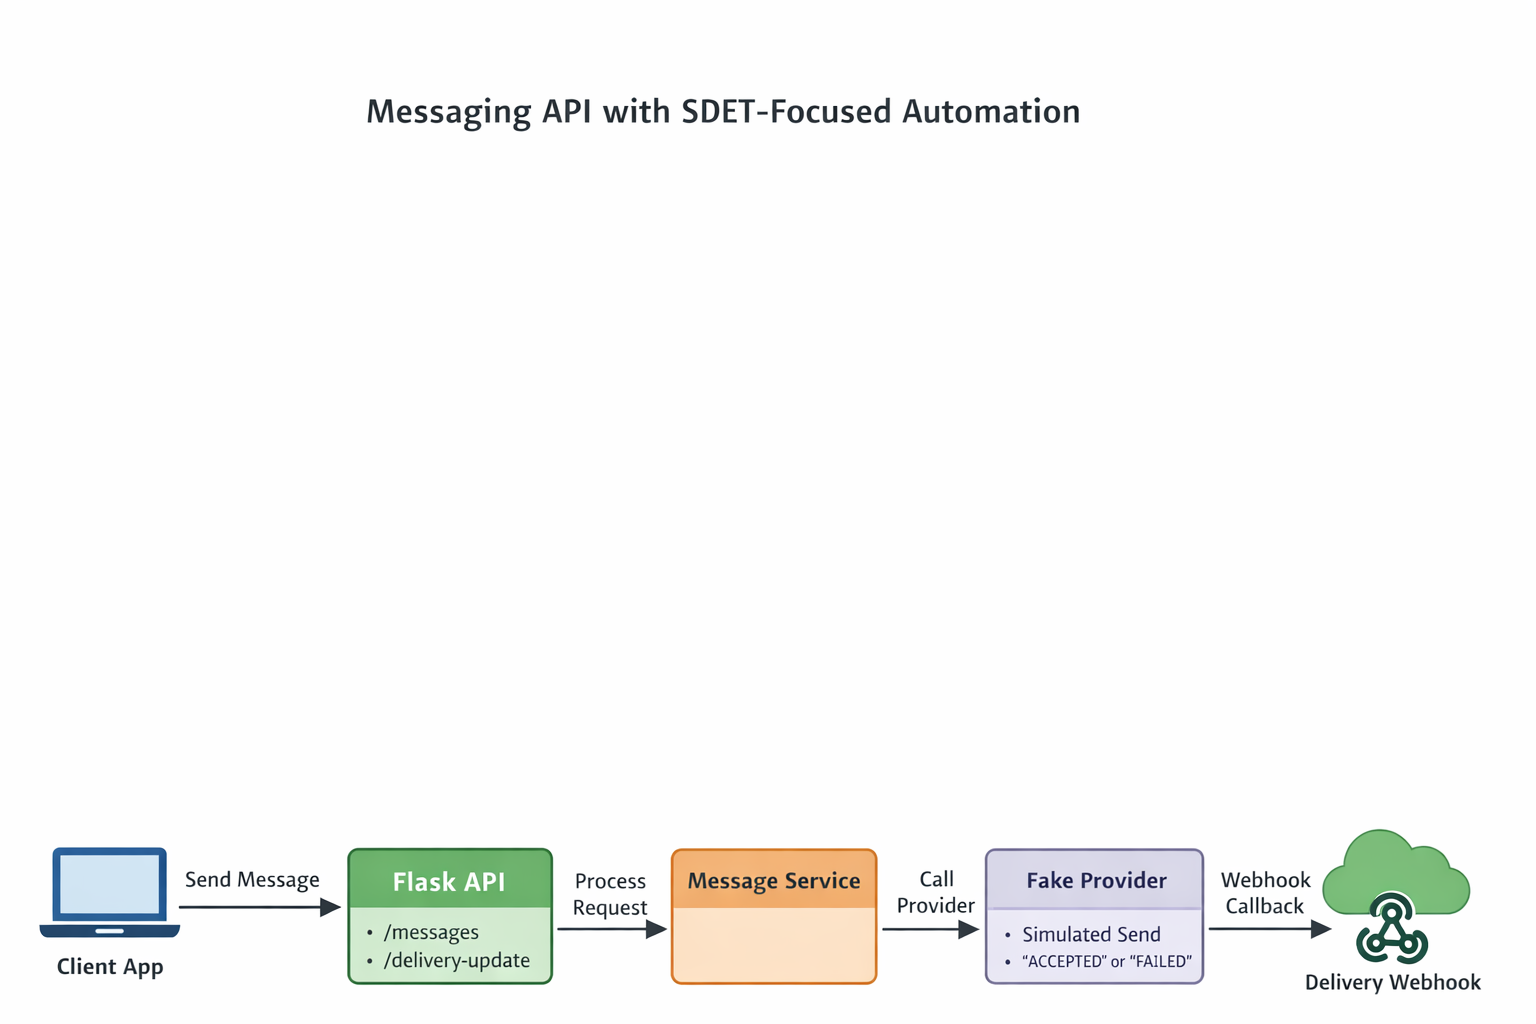
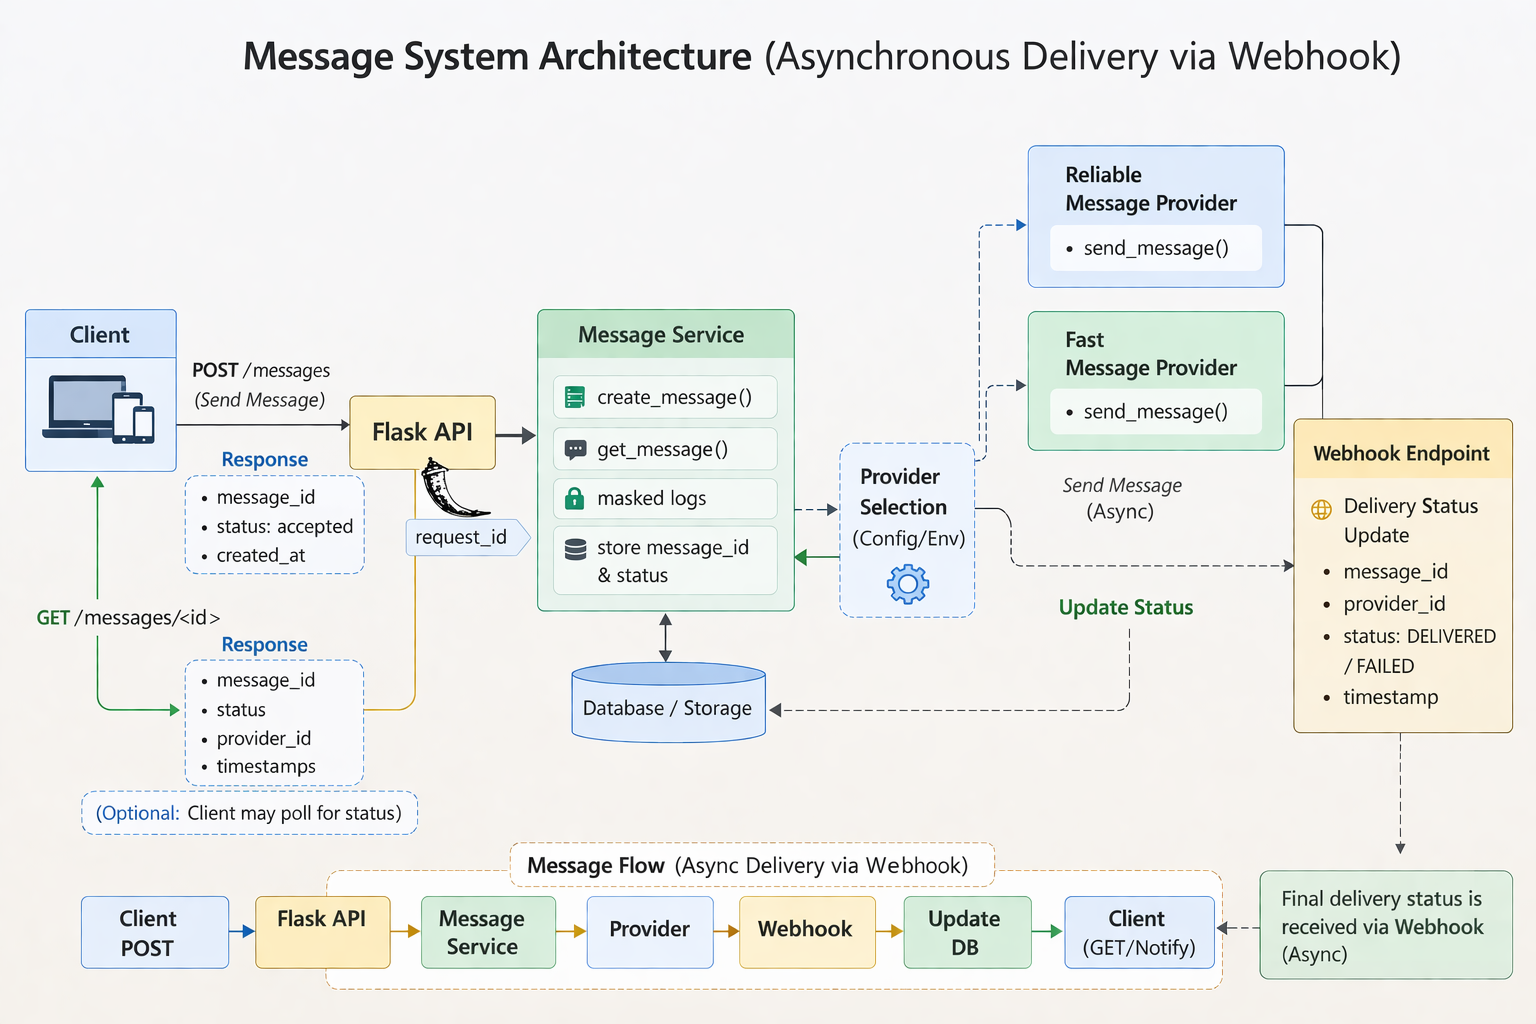
Sprint2: Added multi-provider support and centralized logging

diff --git a/services/message_service.py b/services/message_service.py
@@ -8,13 +8,47 @@ It:
 - Handles status transitions
 """
 from datetime import datetime,timezone
+import os
+import json
+from providers.reliable_message_provider import ReliableMessageProvider
+from providers.fast_message_provider import FastMessageProvider
+from utils.logger import get_logger
+logger = get_logger(__name__)
 
 class MessageService:
 
-    def __init__(self, provider):
-        self.provider = provider
+
+    def __init__(self):
+        self.providers = self.load_providers()
         self.messages = {}  # In-memory storage (acts like database)
         self.current_id = 1
+
+    def load_providers(self):
+        """Load provider instances from config file"""
+        with open("config/providers_config.json") as f:
+            config = json.load(f)
+
+        provider_instances = []
+        for p_name in config.get("providers", []):
+            if p_name == "ReliableMessageProvider":
+                provider_instances.append(ReliableMessageProvider())
+            elif p_name == "FastMessageProvider":
+                provider_instances.append(FastMessageProvider())
+            # future providers: add elif
+
+        return provider_instances
+
+    def select_provider(self):
+        """Select provider dynamically: from environment variable (Jenkins) or default first provider"""
+        provider_name = os.getenv("PROVIDER_NAME")  # Jenkins can pass this
+
+
+        if provider_name:
+            for p in self.providers:
+                if p.__class__.__name__ == provider_name:
+                    return p
+        # fallback to first provider in config
+        return self.providers[0] if self.providers else None
 
     def create_message(self, receiver, content):
         """
@@ -27,19 +61,27 @@ class MessageService:
         """
 
         # Basic validation
-
+        logger.info("Creating message for receiver", receiver=receiver)
         if not receiver.isdigit() or len(receiver) != 10:
             return {"error": "Invalid phone number"}, 400
 
         if not content:
             return {"error": "Content cannot be empty"}, 400
 
-        # Send to provider
-        provider_response = self.provider.send(content)
+        """Send message via selected provider"""
+        provider = self.select_provider()
+
+        if not provider:
+            return {"status": "FAILED", "error": "No provider available", "provider_id": None}
+        provider_response = provider.send(receiver,content)
+        logger.info("Provider response: ", provider_response = provider_response)
+        # Send to provider -- old logic
+        # provider_response = self.provider.send(content)
 
         if provider_response["status"] == "FAILED":
             # 503 Service Unavailable
             # Used when external dependency fails
+            logger.error("Provider failed to send message of receiver", receiver=receiver)
             return {"error": "Provider failure"}, 503
 
         message_id = self.current_id
@@ -79,7 +121,7 @@ class MessageService:
         404 -> Provider ID not found
         400 -> Invalid status transition
         """
-
+        logger.info("Updating message status for provider_id ",provider_id = provider_id)
         for msg in self.messages.values():
             if msg["provider_id"] == provider_id:
 
@@ -90,6 +132,7 @@ class MessageService:
                 msg["status"] = status
                 # Use provided timestamp if exists, else UTC now
                 msg["updated_at"] = timestamp if timestamp else datetime.now(timezone.utc)
+                logger.info(f"Message status updated to {status}")
                 return msg, 200
 
         return {"error": "Provider ID not found"}, 404

diff --git a/tests/test_messages.py b/tests/test_messages.py
@@ -37,7 +37,7 @@ def test_create_valid_message(client):
     data = response.get_json()
     assert "id" in data
     assert data["status"] == "SENT"
-    print(data)
+
 
 
 def test_invalid_phone_number(client):
@@ -55,7 +55,7 @@ def test_invalid_phone_number(client):
     })
 
     assert response.status_code == 400
-    print(response.get_json())
+
 
 
 def test_empty_content(client):
@@ -72,7 +72,7 @@ def test_empty_content(client):
     })
 
     assert response.status_code == 400
-    print(response.get_json())
+
 # ---------------------------------------------------
 # Test: Get existing message (depends on message being created)
 # ---------------------------------------------------
@@ -95,7 +95,7 @@ def test_get_existing_message(client):
     get_response = client.get(f"/messages/{message_id}")
 
     assert get_response.status_code == 200
-    print(get_response.get_json())
+
 
 def test_get_non_existing_message(client):
     """
@@ -107,7 +107,7 @@ def test_get_non_existing_message(client):
 
     response = client.get("/messages/9999")
     assert response.status_code == 404
-    print(response.get_json())
+
 
 # ---------------------------------------------------
 # Test: Webhook / update status (provider may fail randomly)
@@ -144,7 +144,7 @@ def test_webhook_update_success(client):
     updated_data = webhook_response.get_json()
 
     assert updated_data["status"] == "DELIVERED"
-    print(updated_data)
+
 
 def test_webhook_invalid_provider(client):
     """
@@ -160,4 +160,4 @@ def test_webhook_invalid_provider(client):
     })
 
     assert response.status_code == 404
-    print(response.get_json())
+

diff --git a/utils/logger.py b/utils/logger.py
@@ -1,0 +1,37 @@
+import logging
+
+SENSITIVE_FIELDS = ["receiver", "phone", "email"]  # you can expand this list
+
+def mask_sensitive(data):
+    """
+    If data is a string (like phone), mask all digits except last 4 digits.
+    If data is a dict, mask sensitive keys recursively.
+    """
+    if isinstance(data, str):
+        if len(data) >= 4:
+            return f"****{data[-4:]}"
+        return "****"
+    elif isinstance(data, dict):
+        return {k: mask_sensitive(v) if k.lower() in SENSITIVE_FIELDS else v
+                for k, v in data.items()}
+    return data  # leave other types untouched
+
+class MaskedLogger:
+    def __init__(self, name):
+        logging.basicConfig(
+            level=logging.INFO,
+            format="%(asctime)s | %(levelname)s | %(name)s | %(message)s"
+        )
+        self.logger = logging.getLogger(name)
+
+    def info(self, msg, **kwargs):
+        # mask sensitive info in kwargs
+        masked = mask_sensitive(kwargs)
+        self.logger.info(f"{msg} {masked}")
+
+    def error(self, msg, **kwargs):
+        masked = mask_sensitive(kwargs)
+        self.logger.error(f"{msg} {masked}")
+
+def get_logger(name):
+    return MaskedLogger(name)

diff --git a/providers/reliable_message_provider.py b/providers/reliable_message_provider.py
@@ -1,0 +1,21 @@
+# ReliableProvider (made-up) simulates a real provider
+# Used for testing; no external network calls are made
+import uuid
+from providers.base_provider import BaseProvider
+import random
+from utils.logger import get_logger
+
+logger = get_logger(__name__)
+
+class ReliableMessageProvider(BaseProvider):
+
+    def send(self, receiver, content):
+        # Randomly accept or fail the message to simulate real provider behavior
+        logger.info("Sending message", receiver=receiver, content=content)
+        # provider_id is unique per message, even for the same provider.
+        # It represents the provider's internal ID for this message.
+        # This is used to track delivery status via webhook.
+        if random.random() < 0.8:
+            return {"status": "ACCEPTED", "provider_id": str(uuid.uuid4())}
+        else:
+            return {"status": "FAILED", "provider_id": str(uuid.uuid4())}

diff --git a/providers/fast_message_provider.py b/providers/fast_message_provider.py
@@ -1,0 +1,21 @@
+# FastProvider (made-up) simulates another Message provider
+# Used for testing; no external network calls are made
+
+from providers.base_provider import BaseProvider
+import random
+import uuid
+from utils.logger import get_logger
+
+logger = get_logger(__name__)
+
+class FastMessageProvider(BaseProvider):
+    def send(self, receiver, content):
+        # Randomly accept or fail the message
+        logger.info("Sending message", receiver=receiver, content=content)
+        # provider_id is unique per message, even for the same provider.
+        # It represents the provider's internal ID for this message.
+        # This is used to track delivery status via webhook.
+        if random.random() < 0.5:
+            return {"status": "ACCEPTED", "provider_id": str(uuid.uuid4())}
+        else:
+            return {"status": "FAILED", "provider_id": str(uuid.uuid4())}

diff --git a/app.py b/app.py
@@ -1,13 +1,15 @@
 from flask import Flask, request, jsonify
 from services.message_service import MessageService
-from providers.fake_provider import FakeProvider
 
 app = Flask(__name__)
-
+# old logic tag v1.0
 # Inject FakeProvider into service (Dependency Injection)
-provider = FakeProvider()
-service = MessageService(provider)
+# provider = FakeProvider()
+# service = MessageService(provider)
 
+
+# Initialize MessageService; it will read providers from config
+service = MessageService()
 
 @app.route("/messages", methods=["POST"])
 def send_message():

diff --git a/providers/base_provider.py b/providers/base_provider.py
@@ -2,7 +2,7 @@
 # We keep it abstract so we can plug in FakeProvider for testing.
 
 class BaseProvider:
-    def send(self, message):
+    def send(self, receiver, content):
         """
         Sends a message to external provider.
 

diff --git a/README.md b/README.md
@@ -15,7 +15,7 @@ It is designed to focus on:
 - Webhook simulation
 - Test automation using `pytest`
 
-The external provider is **simulated using a fake provider**, making the project self-contained .
+
 
 ---
 ## Technologies Used
@@ -105,11 +105,27 @@ The automated tests validate:
    - Updates message status (`SENT → DELIVERED`)  
    - Returns `200 OK`, `404` if provider_id not found, `400` for invalid state transitions
 
-4. **Fake Provider**  
-   - Randomly simulates `ACCEPTED` or `FAILED` response  
-   - No external network calls required  
-   - Demonstrates dependency injection and testable architecture
-5. **Tests**  
+ 4.  **Config-Driven Multiple Providers**
+- `MessageService` dynamically selects provider(s) based on **config.yaml** or `PROVIDER_NAME` environment variable.  
+- Current simulated providers:  
+    - `ReliableMessageProvider`  
+    - `FastMessageProvider`  
+- **Benefit:** easily extend to new providers without changing `MessageService` or tests.
+
+ 5. **Logging and Masking**
+
+    - Centralized logger captures:  
+        - `request_id` (API request)  
+        - `message_id` (individual message)  
+        - Provider responses and status updates  
+- Sensitive information (e.g., recipient phone number, message content) is **masked** before logging.  
+- Logger is used in:  
+  - `MessageService` (all message creation, updates, provider calls)  
+  - Each Provider (`send_message`)  
+  - Webhook updates  
+
+- **Benefit:** traceable, secure, and future-ready for production monitoring.
+6. **Tests**  
    - Pytest test cases include **xfail** for expected provider failures  
    - Positive and negative scenarios, webhook simulation, status validation  
 ---
@@ -149,12 +165,20 @@ venv\Scripts\activate      # Windows
 pip install -r requirements.txt
 ```
 
+4. set environment to provider of choice.In future enhancements we set this variable in Jenkins
+```
+export PROVIDER_NAME=ReliableMessageProvider
+or
+export PROVIDER_NAME=FastMessageProvider
+```
 ## Running Tests
 
 Run all tests using:
 
 ```bash
 pytest -v
+pytest -v -s 
+to get logging information for debugging
 ```
 
 The test suite includes:
@@ -170,6 +194,6 @@ The test suite includes:
 - Add message retry mechanism for provider failures
 - Add asynchronous queue 
 - Add API authentication
-- Add logging and monitoring
+- Add  monitoring
 - Add CI pipeline using Jenkins or GitHub Actions
 - Add test coverage reporting
